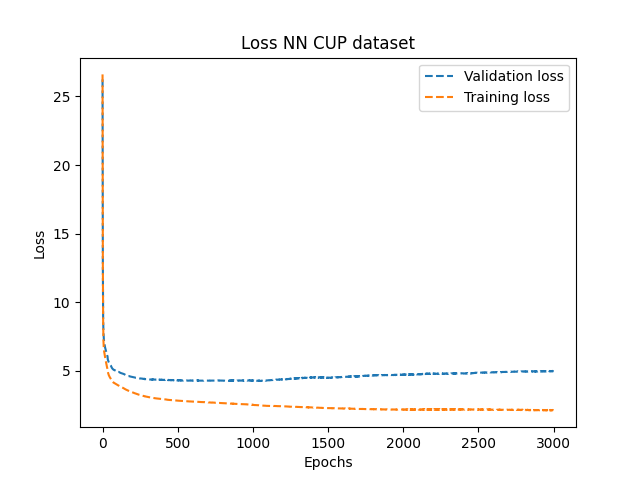
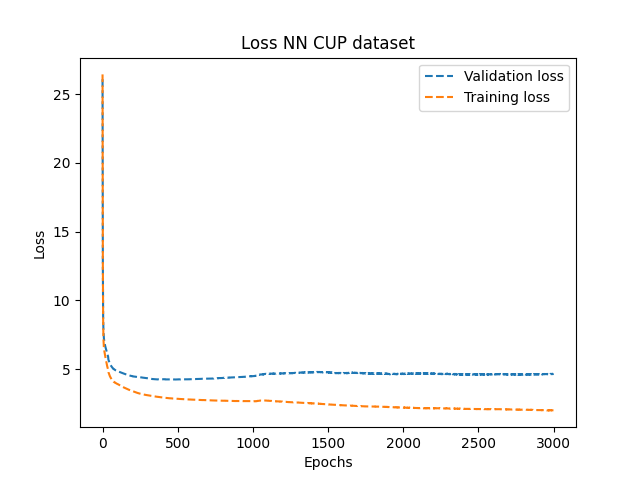
Refactoring

diff --git a/src/NN/testCUP.py b/src/NN/testCUP.py
@@ -31,7 +31,7 @@ if __name__ == '__main__':
 
     h1 = 16
     h2 = 32
-    activation = 'relu'
+    activation = 'Lrelu'
     lmbda = 0
     momentum = 0.5
     epochs = 3000
